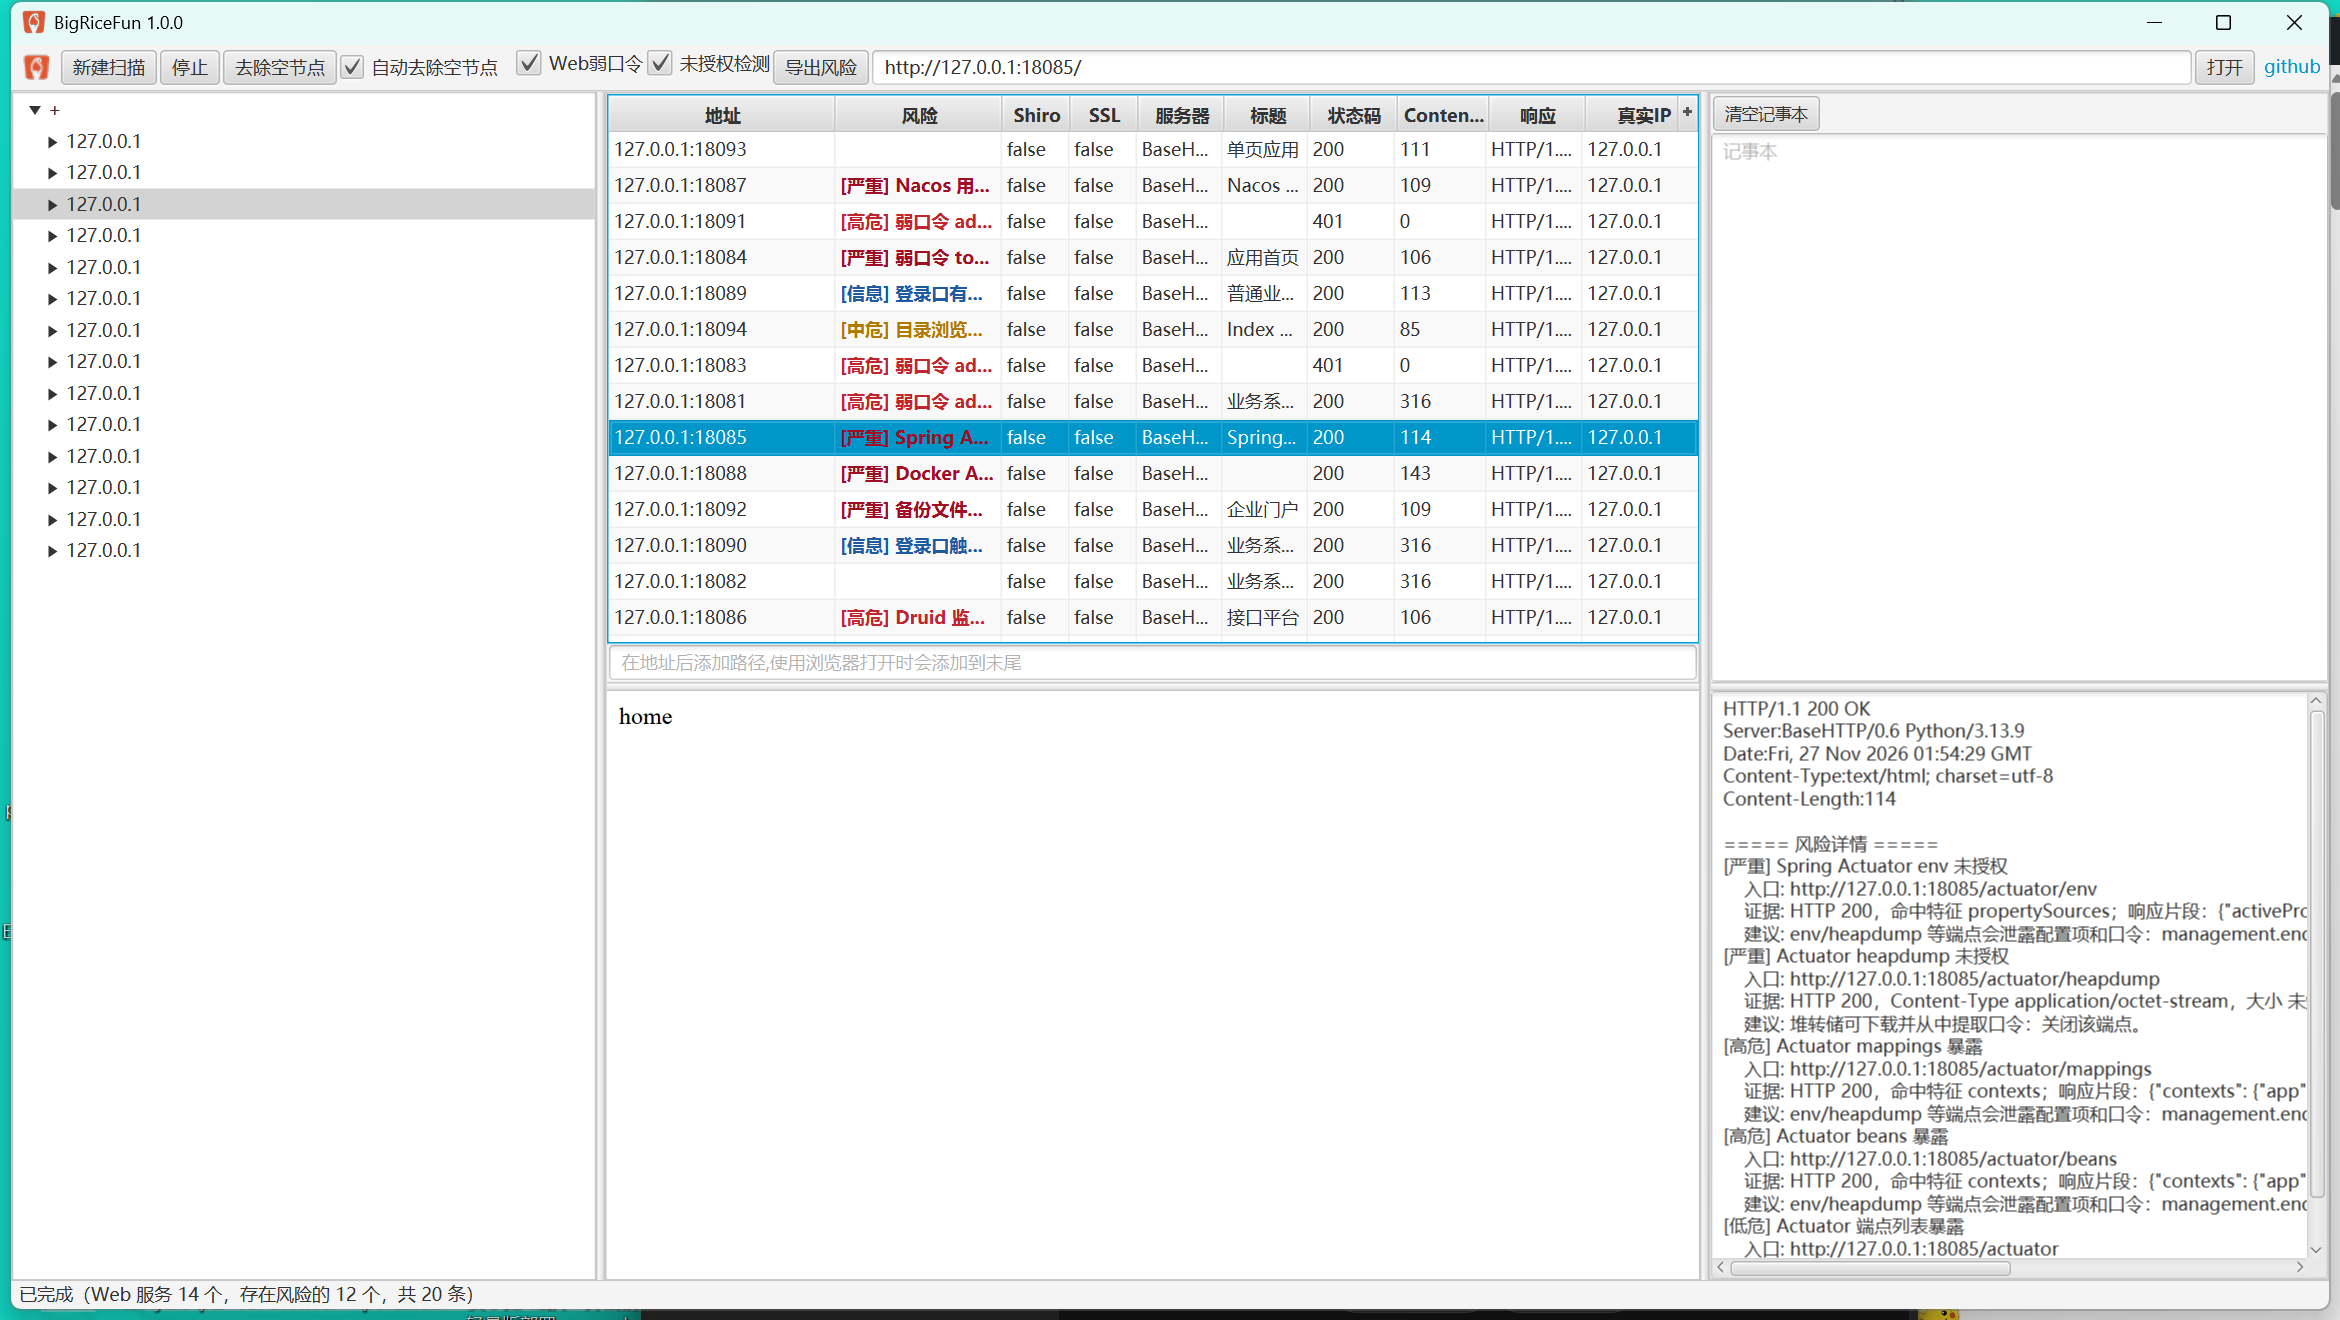
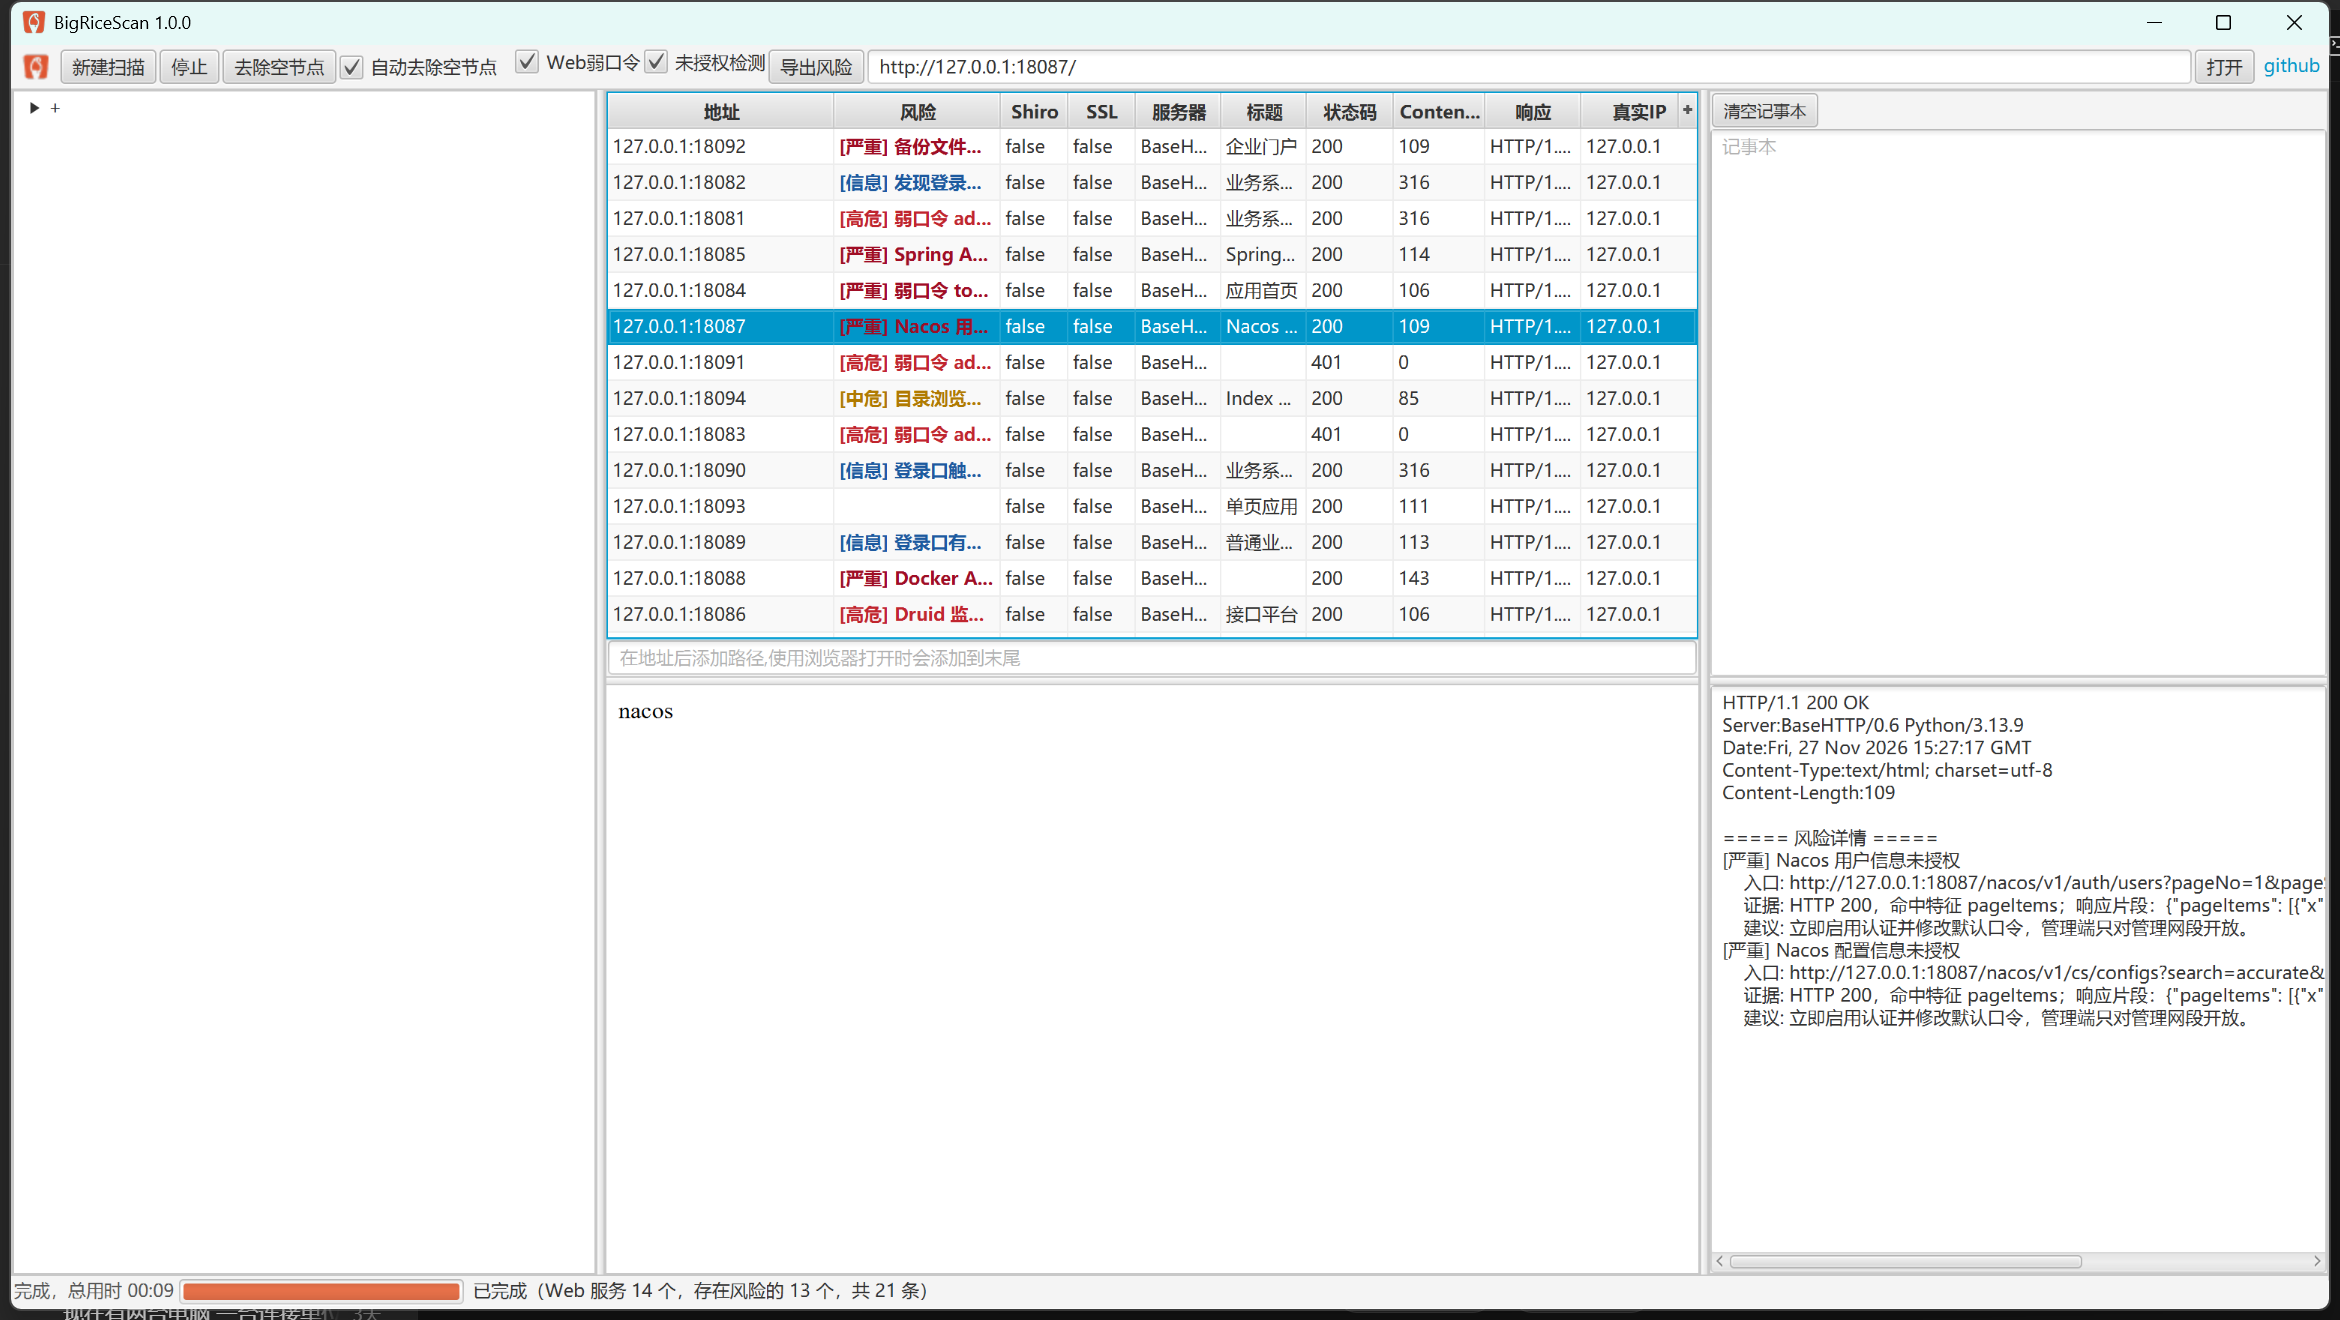
更名 BigRiceScan（大米饭）：包名、构建、工具、图标全量改名
- package com.bigricefun -> com.bigricescan，Main-Class、jar/ico/bat/dict 命名同步
- README：补英文摘要与中英检索关键词（web 扫描/web 漏扫/内网 web 工具/web 未授权检测），
  修正已知限制（JS 登录页已支持）、特征数 51、登录路径 47、目录结构补 Progress.java
- docs 截图重拍（标题栏 BigRiceScan 1.0.0，含状态栏进度条）

Changed region(s): [[0.0, 0.0, 1.0, 1.0]]

diff --git a/tools/build.py b/tools/build.py
@@ -1,10 +1,10 @@
-"""Build BigRiceFun.
+"""Build BigRiceScan.
 
 Steps:
-  1. get the base jar - from --base, from the build cache, or from BIGRICEFUN_BASE_JAR
+  1. get the base jar - from --base, from the build cache, or from BIGRICESCAN_BASE_JAR
   2. compile src/main/java (JDK 8)
   3. package: every base entry is copied byte-for-byte; only the manifest's Main-Class
-     changes, and com/bigricefun/*.class plus the brand icons are added
+     changes, and com/bigricescan/*.class plus the brand icons are added
   4. verify: all base entries must be identical, otherwise the build fails
   5. assemble dist/ as a ready-to-run folder (jar, launcher, icon, dictionary example)
 
@@ -22,17 +22,17 @@ import tempfile
 import zipfile
 
 ROOT = os.path.dirname(os.path.dirname(os.path.abspath(__file__)))
-SRC = os.path.join(ROOT, "src", "main", "java", "com", "bigricefun")
+SRC = os.path.join(ROOT, "src", "main", "java", "com", "bigricescan")
 ASSETS = os.path.join(ROOT, "assets")
 DIST = os.path.join(ROOT, "dist")
 BUILD = os.path.join(DIST, "build")
-OUT_JAR = os.path.join(DIST, "BigRiceFun.jar")
+OUT_JAR = os.path.join(DIST, "BigRiceScan.jar")
 
-APP_NAME = "BigRiceFun"
+APP_NAME = "BigRiceScan"
 VERSION = "1.0.0"
-MAIN_CLASS = "com.bigricefun.Launch"
+MAIN_CLASS = "com.bigricescan.Launch"
 
-# Base jar: provided locally (env BIGRICEFUN_BASE_JAR, --base, or dist/base cache).
+# Base jar: provided locally (env BIGRICESCAN_BASE_JAR, --base, or dist/base cache).
[1 lines of base64/hex data omitted]
 
 MANIFEST = ("Manifest-Version: 1.0\r\n"
@@ -59,7 +59,7 @@ def get_base(explicit):
         check_base(data, explicit)
         return data
 
-    env = os.environ.get("BIGRICEFUN_BASE_JAR")
+    env = os.environ.get("BIGRICESCAN_BASE_JAR")
     if env and os.path.isfile(env):
         with open(env, "rb") as fh:
             data = fh.read()
@@ -79,7 +79,7 @@ def get_base(explicit):
                 say("cached jar has a wrong hash, skipping: " + path)
 
     raise SystemExit("cannot obtain the base jar.\n"
-                     "Put it in dist/base/, set BIGRICEFUN_BASE_JAR, or pass: --base <path>")
+                     "Put it in dist/base/, set BIGRICESCAN_BASE_JAR, or pass: --base <path>")
 
 
 def check_base(data, where):
@@ -156,7 +156,7 @@ def package(classes, pristine):
         for root, _, files in os.walk(classes):
             for f in sorted(files):
                 if f.endswith(".class"):
-                    zout.write(os.path.join(root, f), "com/bigricefun/" + f, compress_type=zipfile.ZIP_DEFLATED)
+                    zout.write(os.path.join(root, f), "com/bigricescan/" + f, compress_type=zipfile.ZIP_DEFLATED)
         for f in sorted(os.listdir(icons)):
             if f.endswith(".png"):
                 zout.write(os.path.join(icons, f), "brand/" + f, compress_type=zipfile.ZIP_DEFLATED)
@@ -226,8 +226,8 @@ echo shortcut created on the desktop
 endlocal
 """
 
-DICT_EXAMPLE = """# BigRiceFun 通用弱口令字典
-# 用法：把这个文件改名为 BigRiceFun-dict.txt，放在 BigRiceFun.jar 同目录，重启生效。
+DICT_EXAMPLE = """# BigRiceScan 通用弱口令字典
+# 用法：把这个文件改名为 BigRiceScan-dict.txt，放在 BigRiceScan.jar 同目录，重启生效。
 #
 # 每行一组「用户名:口令」，会替换内置的 8 组通用口令（产品专属默认口令不受影响）。
 # max=N  通用字典最多试几组，默认 8。通用口令可能打到接了域账号的登录口，

diff --git a/src/main/java/com/bigricescan/Rules.java b/src/main/java/com/bigricescan/Rules.java
@@ -1,4 +1,4 @@
-package com.bigricefun;
+package com.bigricescan;
 
 import java.io.File;
 import java.nio.charset.StandardCharsets;
@@ -11,14 +11,14 @@ import java.util.Map;
 
 /**
  * 内置规则：未授权特征、登录入口、字典。都是静态表，改这里就改行为。
- * jar 同目录放一个 BigRiceFun-dict.txt（每行 user:pass，可用 max=N 调尝试上限）可覆盖通用字典。
+ * jar 同目录放一个 BigRiceScan-dict.txt（每行 user:pass，可用 max=N 调尝试上限）可覆盖通用字典。
  */
 final class Rules {
     private Rules() {}
 
     /**
      * 通用字典最多试几组。通用口令会打到可能接了域账号的登录口，默认 8 组偏保守；
-     * jar 旁的 BigRiceFun-dict.txt 里写 max=N 可放开。产品专属默认口令不占这个额度。
+     * jar 旁的 BigRiceScan-dict.txt 里写 max=N 可放开。产品专属默认口令不占这个额度。
      */
     static final int MAX_GENERIC_DEFAULT = 8;
     static int maxGeneric = MAX_GENERIC_DEFAULT;
@@ -215,7 +215,7 @@ final class Rules {
     }
 
     static void loadDict(File dir) {
-        File f = new File(dir, "BigRiceFun-dict.txt");
+        File f = new File(dir, "BigRiceScan-dict.txt");
         if (!f.isFile()) {
             return;
         }

diff --git a/tools/screenshot.py b/tools/screenshot.py
@@ -1,6 +1,6 @@
-"""Capture the BigRiceFun window to docs/screenshot-main.png (Windows).
+"""Capture the BigRiceScan window to docs/screenshot-main.png (Windows).
 
-Finds the visible top-level window whose title contains "BigRiceFun", moves it fully onto
+Finds the visible top-level window whose title contains "BigRiceScan", moves it fully onto
 the primary screen, and copies that screen region into a PNG.
 
 usage: python -I tools/screenshot.py <out.png> [title]
@@ -37,7 +37,7 @@ def find_window(pid, needle):
 
 def main():
     out = sys.argv[1] if len(sys.argv) > 1 else "docs/screenshot-main.png"
-    needle = sys.argv[2] if len(sys.argv) > 2 else "BigRiceFun"
+    needle = sys.argv[2] if len(sys.argv) > 2 else "BigRiceScan"
     pid = int(sys.argv[3]) if len(sys.argv) > 3 else 0
 
     cands = find_window(pid, needle) if pid else []

diff --git a/src/main/java/com/bigricescan/WebApp.java b/src/main/java/com/bigricescan/WebApp.java
@@ -1,4 +1,4 @@
-package com.bigricefun;
+package com.bigricescan;
 
 import com.webfinder.portscan.PortScan;
 
@@ -12,10 +12,10 @@ import java.util.ArrayList;
 import java.util.List;
 
 /**
- * BigRiceFun 入口。加载界面、建库、显示窗口，换上自己的名字和图标，并挂上 Web 检测。
+ * BigRiceScan 入口。加载界面、建库、显示窗口，换上自己的名字和图标，并挂上 Web 检测。
  */
 public class WebApp extends PortScan {
-    public static final String NAME = "BigRiceFun";
+    public static final String NAME = "BigRiceScan";
     public static final String VERSION = "1.0.0";
     private static final int[] ICON_SIZES = {16, 20, 24, 32, 48, 64, 128, 256};
 

diff --git a/test/TestDrive.java b/test/TestDrive.java
@@ -1,4 +1,4 @@
-import com.bigricefun.WebApp;
+import com.bigricescan.WebApp;
 import com.webfinder.portscan.FXMLDocumentController;
 import com.webfinder.portscan.ScanTask;
 import com.webfinder.portscan.ScanTaskIpPort;
@@ -24,7 +24,7 @@ import java.util.concurrent.ThreadPoolExecutor;
  * New Scan "start" button does, logs every status-bar change with a timestamp, and exits
  * a little after the status says done.
  *
- * usage: java -Dtargets=127.0.0.1:18081,127.0.0.1:18082 -cp test;BigRiceFun.jar TestDrive
+ * usage: java -Dtargets=127.0.0.1:18081,127.0.0.1:18082 -cp test;BigRiceScan.jar TestDrive
  */
 public class TestDrive extends WebApp {
     private static long t0;

diff --git a/tools/setup_remote.py b/tools/setup_remote.py
@@ -27,7 +27,7 @@ def api(tok, method, path, payload=None):
     req = urllib.request.Request(API + path, data=data, method=method, headers={
         "Authorization": "Bearer " + tok,
         "Accept": "application/vnd.github+json",
-        "User-Agent": "BigRiceFun-setup",
+        "User-Agent": "BigRiceScan-setup",
         "Content-Type": "application/json",
     })
     try:
@@ -41,7 +41,7 @@ def api(tok, method, path, payload=None):
 
 def main():
     args = [a for a in sys.argv[1:] if not a.startswith("--")]
-    name = args[0] if args else "BigRiceFun"
+    name = args[0] if args else "BigRiceScan"
     public = "--public" in sys.argv
     tok = token()
 

diff --git a/tools/make_icons.py b/tools/make_icons.py
@@ -1,4 +1,4 @@
-"""Build the BigRiceFun / 野人先生 icon set from the extracted logo master.
+"""Build the BigRiceScan / 野人先生 icon set from the extracted logo master.
 
 The brand mark is a single-colour silhouette (orange shape, the flame is a cut-out that
 opens into the notch at the bottom). The master is therefore flattened to one colour

diff --git a/src/main/java/com/bigricescan/RiskItem.java b/src/main/java/com/bigricescan/RiskItem.java
@@ -1,4 +1,4 @@
-package com.bigricefun;
+package com.bigricescan;
 
 /** 一条风险。severity 用 严重/高危/中危/低危/信息。 */
 final class RiskItem {

diff --git a/src/main/java/com/bigricescan/Boot.java b/src/main/java/com/bigricescan/Boot.java
@@ -1,4 +1,4 @@
-package com.bigricefun;
+package com.bigricescan;
 
 import com.webfinder.portscan.FXMLDocumentController;
 import com.webfinder.portscan.model.Row;

diff --git a/src/main/java/com/bigricescan/WebAudit.java b/src/main/java/com/bigricescan/WebAudit.java
@@ -1,4 +1,4 @@
-package com.bigricefun;
+package com.bigricescan;
 
 import com.webfinder.portscan.model.Row;
 import org.apache.http.NameValuePair;

diff --git a/src/main/java/com/bigricescan/Progress.java b/src/main/java/com/bigricescan/Progress.java
@@ -1,4 +1,4 @@
-package com.bigricefun;
+package com.bigricescan;
 
 import javafx.application.Platform;
 import javafx.scene.control.Label;

diff --git a/src/main/java/com/bigricescan/Http.java b/src/main/java/com/bigricescan/Http.java
@@ -1,4 +1,4 @@
-package com.bigricefun;
+package com.bigricescan;
 
 import org.apache.http.Header;
 import org.apache.http.HttpEntity;
